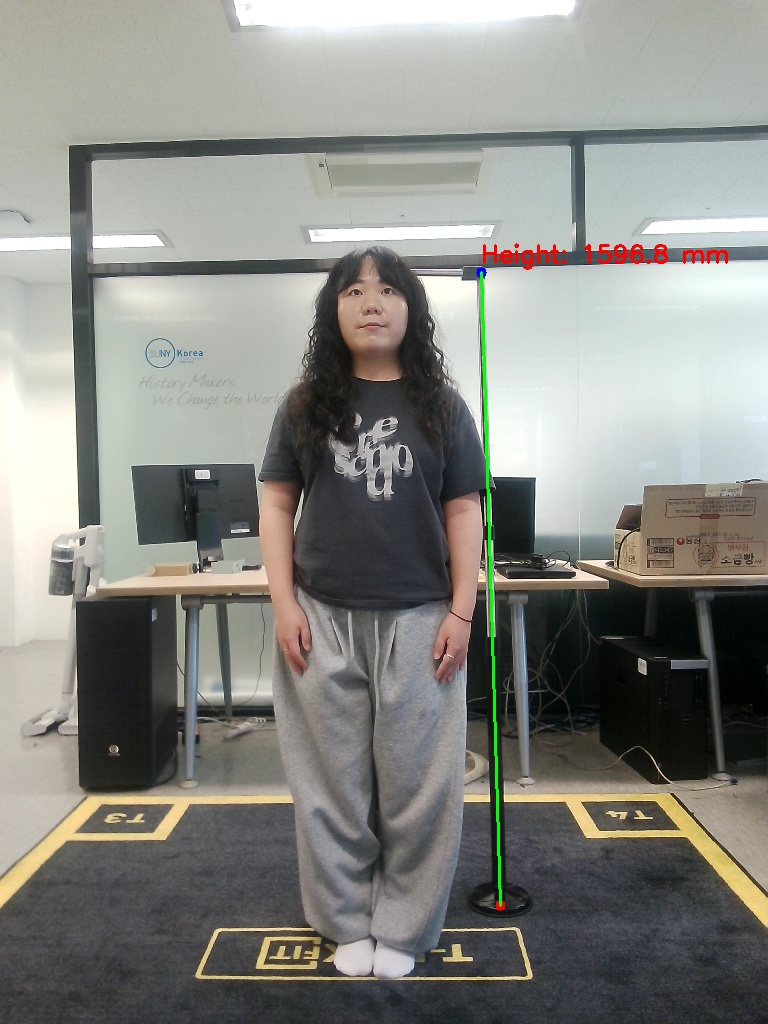
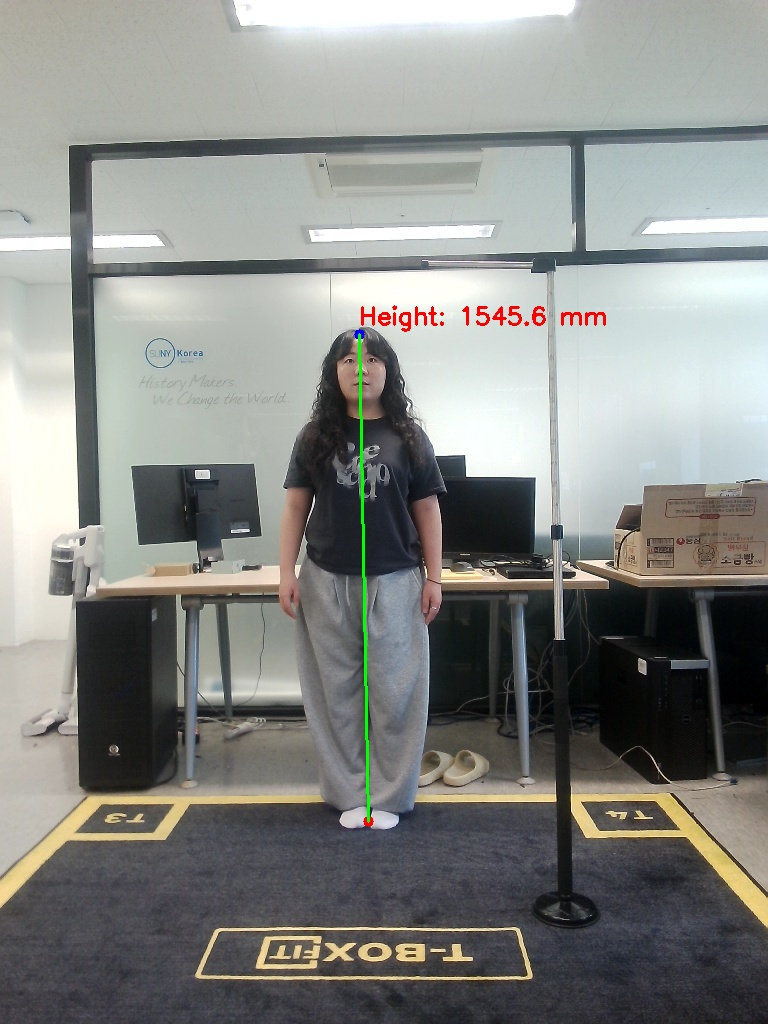
theta

Changed region(s): [[0.3125, 0.2188, 0.9375, 0.9688], [0.2188, 0.7812, 0.25, 0.8125]]

diff --git a/HightMeasurement/thetaConfidence/plottingPerFoler.py b/HightMeasurement/thetaConfidence/plottingPerFoler.py
@@ -1,0 +1,98 @@
+import cv2
+import numpy as np
+import os
+import matplotlib.pyplot as plt
+
+# === Load intrinsic and extrinsic parameters ===
+intrin = np.load("/Users/sojeongshin/Documents/GitHub/PoseEstimation/HightMeasurement/cameraCali/intrinsic_calibration_result.npz")
+K = intrin["K"]
+dist = intrin["dist"]
+
+extrin = np.load("/Users/sojeongshin/Documents/GitHub/PoseEstimation/HightMeasurement/final_extrinsic_calibration.npz")
+extrinsic_matrix = extrin["extrinsic_matrix"]
+R = extrinsic_matrix[:, :3]
+t = extrinsic_matrix[:, 3].reshape(3, 1)
+R_inv = np.linalg.inv(R)
+C_world = -R_inv @ t
+
+# === Helper functions ===
+def ray_direction(u, v):
+    uv1 = np.array([[u], [v], [1]])
+    d_cam = np.linalg.inv(K) @ uv1
+    d_world = R_inv @ d_cam
+    return d_world / np.linalg.norm(d_world)
+
+def compute_height_and_angle(u_head, v_head, u_feet, v_feet):
+    d_feet = ray_direction(u_feet, v_feet)
+    s_feet = -C_world[2, 0] / d_feet[2, 0]
+    feet_world = (C_world + s_feet * d_feet).ravel()
+
+    d_head = ray_direction(u_head, v_head)
+    head_world = (C_world + s_feet * d_head).ravel()
+
+    height = head_world[2] - feet_world[2]
+
+    # Angle between head ray and z-axis
+    z_axis = np.array([[0], [0], [1]])
+    cos_theta = float((d_head.T @ z_axis) / np.linalg.norm(d_head))
+    theta_deg = np.degrees(np.arccos(cos_theta))
+
+    return height, theta_deg
+
+# === Manual clicking handler ===
+def get_clicks(img):
+    clone = img.copy()
+    clicks = []
+
+    def mouse_callback(event, x, y, flags, param):
+        if event == cv2.EVENT_LBUTTONDOWN and len(clicks) < 2:
+            clicks.append((x, y))
+            cv2.circle(clone, (x, y), 5, (0, 0, 255), -1)
+            cv2.imshow("Click Head and Feet", clone)
+
+    cv2.imshow("Click Head and Feet", clone)
+    cv2.setMouseCallback("Click Head and Feet", mouse_callback)
+
+    while True:
+        cv2.imshow("Click Head and Feet", clone)
+        if len(clicks) == 2:
+            cv2.destroyAllWindows()
+            break
+        if cv2.waitKey(1) & 0xFF == 27:
+            break
+
+    return sorted(clicks, key=lambda pt: pt[1])  # 머리가 위쪽
+
+# === Main Loop ===
[1 lines of base64/hex data omitted]
+image_files = sorted([f for f in os.listdir(image_dir) if f.endswith(".jpg")])
+
+theta_list = []
+height_list = []
+
+for idx, fname in enumerate(image_files):
+    print(f"[{idx+1}/{len(image_files)}] Processing: {fname}")
+    img_path = os.path.join(image_dir, fname)
+    img = cv2.imread(img_path)
+    (u_head, v_head), (u_feet, v_feet) = get_clicks(img)
+
+    height, theta = compute_height_and_angle(u_head, v_head, u_feet, v_feet)
+    print(f" -> θ: {theta:.2f} deg | Height: {height:.1f} mm")
+
+    theta_list.append(theta)
+    height_list.append(height)
+
+# === Sort data by theta
+theta_height_pairs = sorted(zip(theta_list, height_list), key=lambda x: x[0])
+sorted_theta, sorted_height = zip(*theta_height_pairs)
+
+# === Plotting
+plt.figure(figsize=(8, 5))
+plt.plot(sorted_theta, sorted_height, 'o-r', linewidth=2)
+plt.xlabel("Theta (deg)")
+plt.ylabel("Measured Height (mm)")
+plt.title("Measured Height vs. Angle θ")
+plt.grid(True)
+plt.tight_layout()
+plt.savefig("theta_vs_height.png")
+plt.show()

diff --git a/HightMeasurement/manualdotHeight.py b/HightMeasurement/manualdotHeight.py
@@ -17,7 +17,7 @@ R_inv = np.linalg.inv(R)
 C_world = -R_inv @ t
 
 # === Load image
-img = cv2.imread("/Users/sojeongshin/Documents/GitHub/PoseEstimation/HightMeasurement/ref/sj/O.jpg")
+img = cv2.imread("/Users/sojeongshin/Documents/GitHub/PoseEstimation/HightMeasurement/ref/sj/back.jpg")
 clone = img.copy()
 clicks = []
 
@@ -47,6 +47,8 @@ def ray_direction(u, v):
     d_cam = np.linalg.inv(K) @ uv1
     d_world = R_inv @ d_cam
     return d_world / np.linalg.norm(d_world)
+
+
 
 # === Compute rays
 d_feet = ray_direction(u_feet, v_feet)
